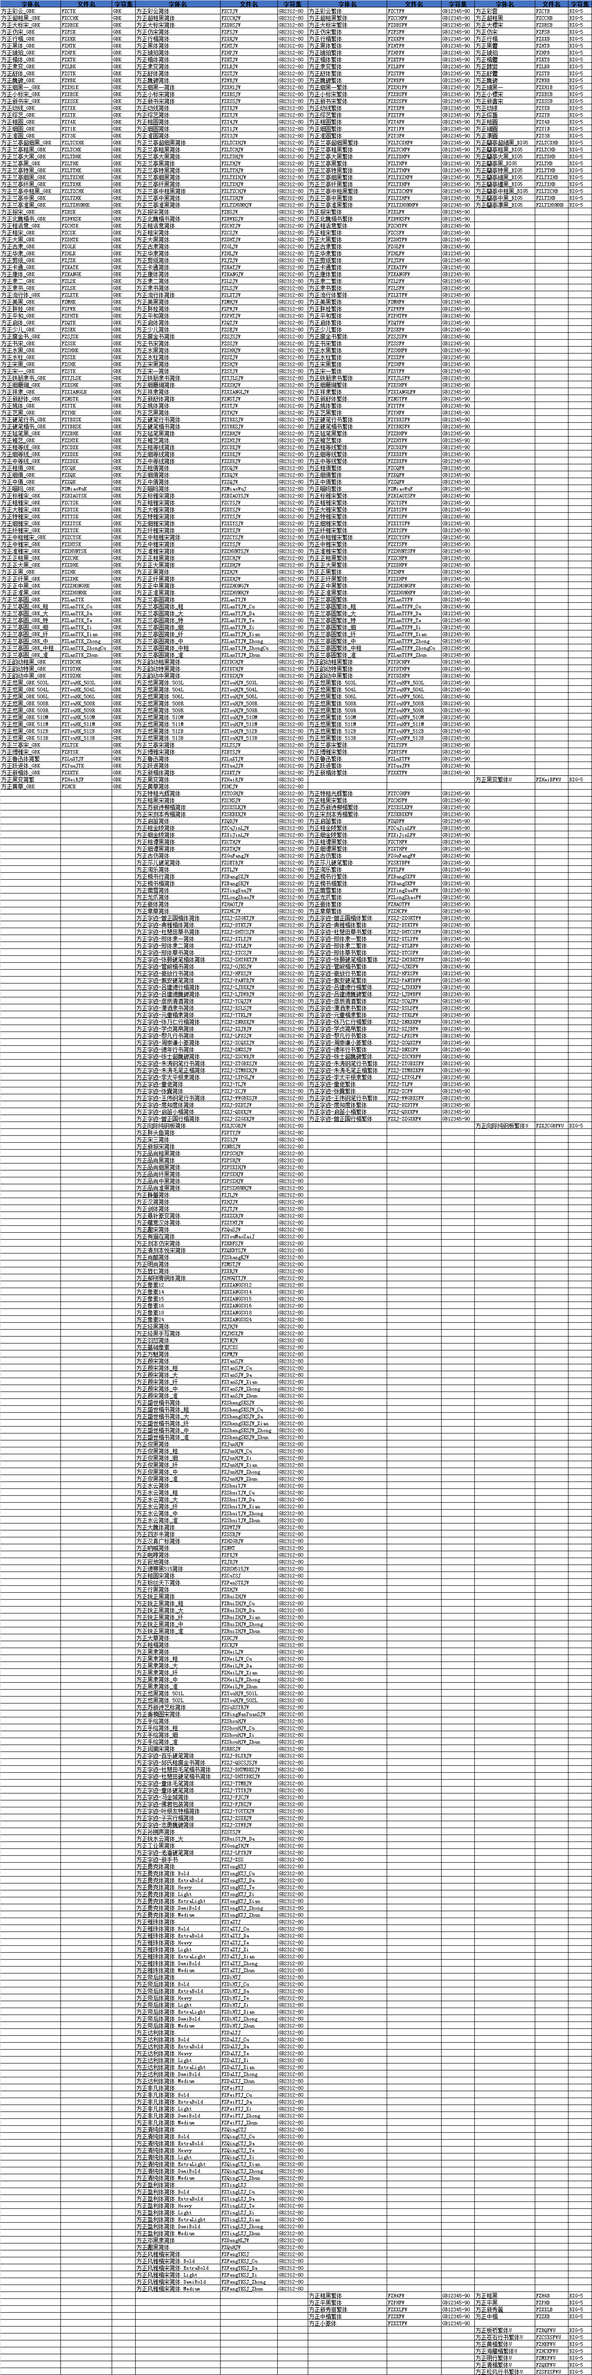
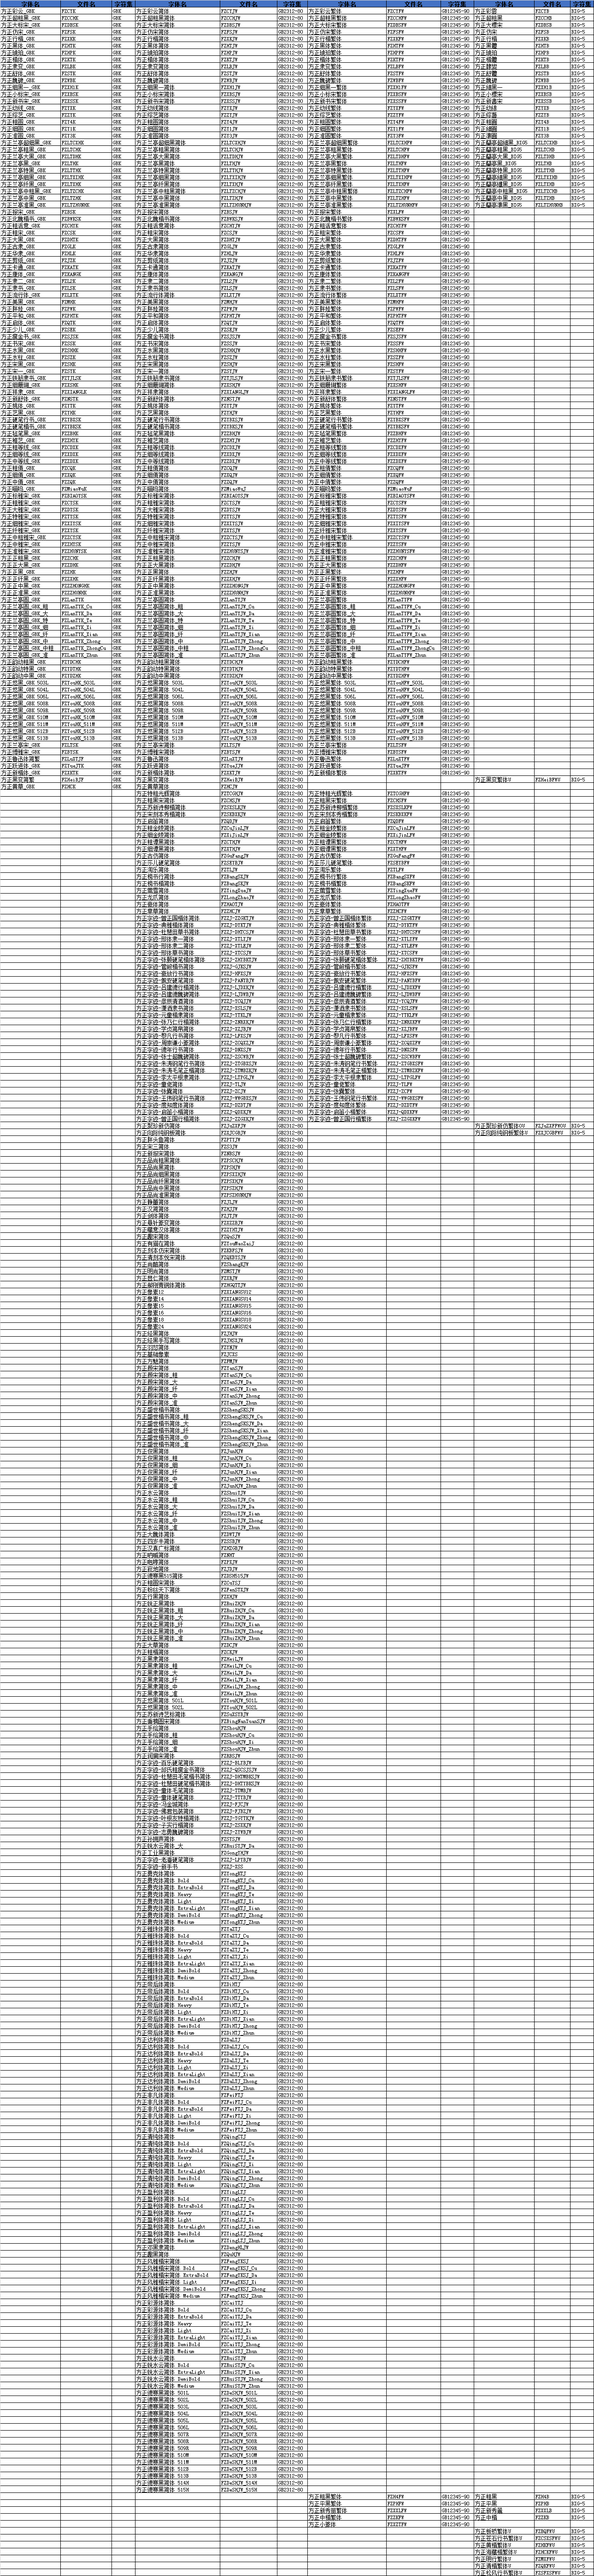
字体上架:方正彩源体简体/方正彩源体简体 Bold/方正彩源体简体 DemiBold/方正彩源体简体 ExtraBold/方正彩源体简体 ExtraLight/方正彩源体简体 Heavy/方正彩源体简体 Light/方正彩源体简体 Medium/方正德赛黑简体 501L/方正德赛黑简体 502L/方正德赛黑简体 503L/方正德赛黑简体 504L/方正德赛黑简体 505L/方正德赛黑简体 506L/方正德赛黑简体 507R/方正德赛黑简体 508R/方正德赛黑简体 509R/方正德赛黑简体 510M/方正德赛黑简体 511M/方正德赛黑简体 512B/方正德赛黑简体 513B/方正德赛黑简体 

diff --git a/README.md b/README.md
@@ -12,14 +12,14 @@
 
 方正字体样张:[http://shop.foundertype.com/index.php/Index/downSample.html](http://shop.foundertype.com/index.php/Index/downSample.html)
 
-目前官方商城在售字体650种：
+目前官方商城在售字体680种：
 
 | 字符集     | 字体数     |
 |------------|------------|
-| GB2312-80  | 329+1      |
-| GB12345-90 | 163+1      |
-| GBK        | 112+1      |
-| BIG-5      | 42         |
+| GB2312-80  | 359        |
+| GB12345-90 | 164        |
+| GBK        | 113        |
+| BIG-5      | 43         |
 |GB18030-2000| 1          |
 |GB18030-2005| 0          |
 
@@ -39,6 +39,7 @@
 | 方正黑體                    | FZHTB              | BIG-5      |
 | 方正琥珀                    | FZHPB              | BIG-5      |
 | 方正黄楷繁体U               | FZHKFWU            | BIG-5      |
+| 方正聚珍新仿繁体OU          | FZJuZXFFWOU        | BIG-5      |
 | 方正楷體                    | FZKTB              | BIG-5      |
 | 方正蘭亭超細黑_BIG5         | FZLTCXHB           | BIG-5      |
 | 方正蘭亭粗黑_BIG5           | FZLTCHB            | BIG-5      |
@@ -238,6 +239,14 @@
 | 方正标雅宋简体              | FZBIAOYSJW         | GB2312-80  |
 | 方正秉楠圆宋简体            | FZBingNanYuanSJW   | GB2312-80  |
 | 方正博雅宋简体              | FZBYSJW            | GB2312-80  |
+| 方正彩源体简体              | FZCaiYTJ           | GB2312-80  |
+| 方正彩源体简体 Bold         | FZCaiYTJ_Cu        | GB2312-80  |
+| 方正彩源体简体 DemiBold     | FZCaiYTJ_Zhong     | GB2312-80  |
+| 方正彩源体简体 ExtraBold    | FZCaiYTJ_Da        | GB2312-80  |
+| 方正彩源体简体 ExtraLight   | FZCaiYTJ_Xian      | GB2312-80  |
+| 方正彩源体简体 Heavy        | FZCaiYTJ_Te        | GB2312-80  |
+| 方正彩源体简体 Light        | FZCaiYTJ_Xi        | GB2312-80  |
+| 方正彩源体简体 Medium       | FZCaiYTJ_Zhun      | GB2312-80  |
 | 方正彩云简体                | FZCYJW             | GB2312-80  |
 | 方正藏意汉体简体            | FZZYHTJW           | GB2312-80  |
 | 方正超粗黑简体              | FZCCHJW            | GB2312-80  |
@@ -266,6 +275,21 @@
 | 方正大魏体简体              | FZDWTJW            | GB2312-80  |
 | 方正大雅宋简体              | FZDYSJW            | GB2312-80  |
 | 方正德赛黑515简体           | FZDSH515JW         | GB2312-80  |
+| 方正德赛黑简体 501L         | FZDeSHJW_501L      | GB2312-80  |
+| 方正德赛黑简体 502L         | FZDeSHJW_502L      | GB2312-80  |
+| 方正德赛黑简体 503L         | FZDeSHJW_503L      | GB2312-80  |
+| 方正德赛黑简体 504L         | FZDeSHJW_504L      | GB2312-80  |
+| 方正德赛黑简体 505L         | FZDeSHJW_505L      | GB2312-80  |
+| 方正德赛黑简体 506L         | FZDeSHJW_506L      | GB2312-80  |
+| 方正德赛黑简体 507R         | FZDeSHJW_507R      | GB2312-80  |
+| 方正德赛黑简体 508R         | FZDeSHJW_508R      | GB2312-80  |
+| 方正德赛黑简体 509R         | FZDeSHJW_509R      | GB2312-80  |
+| 方正德赛黑简体 510M         | FZDeSHJW_510M      | GB2312-80  |
+| 方正德赛黑简体 511M         | FZDeSHJW_511M      | GB2312-80  |
+| 方正德赛黑简体 512B         | FZDeSHJW_512B      | GB2312-80  |
+| 方正德赛黑简体 513B         | FZDeSHJW_513B      | GB2312-80  |
+| 方正德赛黑简体 514H         | FZDeSHJW_514H      | GB2312-80  |
+| 方正德赛黑简体 515H         | FZDeSHJW_515H      | GB2312-80  |
 | 方正邓黑隶简体              | FZDengHLJW         | GB2312-80  |
 | 方正帝后体简体              | FZDiHTJ            | GB2312-80  |
 | 方正帝后体简体 Bold         | FZDiHTJ_Cu         | GB2312-80  |
@@ -317,6 +341,7 @@
 | 方正经黑简体                | FZJHJW             | GB2312-80  |
 | 方正经黑手写简体            | FZJHSXJW           | GB2312-80  |
 | 方正静蕾简体                | FZJLJW             | GB2312-80  |
+| 方正聚珍新仿简体            | FZJuZXFJW          | GB2312-80  |
 | 方正俊黑简体                | FZJunHJW           | GB2312-80  |
 | 方正俊黑简体_粗             | FZJunHJW_Cu        | GB2312-80  |
 | 方正俊黑简体_细             | FZJunHJW_Xi        | GB2312-80  |
@@ -380,6 +405,11 @@
 | 方正清刻本悦宋简体          | FZQKBYSJW          | GB2312-80  |
 | 方正趣黑简体                | FZQuHJW            | GB2312-80  |
 | 方正趣宋简体                | FZQuSJW            | GB2312-80  |
+| 方正锐水云简体              | FZRuiSYJW          | GB2312-80  |
+| 方正锐水云简体 Bold         | FZRuiSYJW_Cu       | GB2312-80  |
+| 方正锐水云简体 DemiBold     | FZRuiSYJW_Zhong    | GB2312-80  |
+| 方正锐水云简体 ExtraLight   | FZRuiSYJW_Xian     | GB2312-80  |
+| 方正锐水云简体 Medium       | FZRuiSYJW_Zhun     | GB2312-80  |
 | 方正锐水云简体_大           | FZRuiSYJW_Da       | GB2312-80  |
 | 方正锐正黑简体              | FZRuiZHJW          | GB2312-80  |
 | 方正锐正黑简体_粗           | FZRuiZHJW_Cu       | GB2312-80  |
